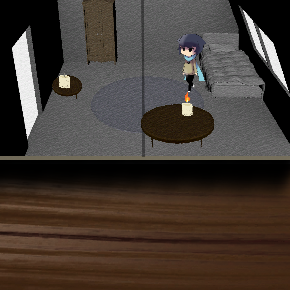
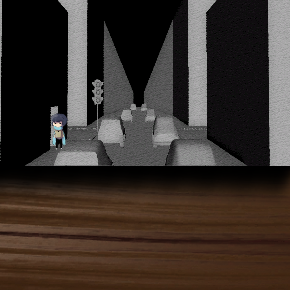
transition fixed

diff --git a/Assets/Scripts/LevelChange.cs b/Assets/Scripts/LevelChange.cs
@@ -70,6 +70,11 @@ public class LevelChange : MonoBehaviour
             CurrentLevel = 2;
             
         }
+        if (Input.GetKeyDown(KeyCode.Alpha3))
+        {
+            CurrentLevel = 3;
+
+        }
     }
 
     
@@ -105,10 +110,10 @@ public class LevelChange : MonoBehaviour
 
         Pages.SetActive(false);
         
-        //RenderTexture rt = new RenderTexture(resWidth, resHeight, 100);
+        RenderTexture rt = new RenderTexture(resWidth, resHeight, 100);
 
         
-        //RenderCamera.targetTexture = rt;
+        RenderCamera.targetTexture = rt;
 
         screenshot = new Texture2D(resWidth, resHeight, TextureFormat.RGBA32, false);
 
